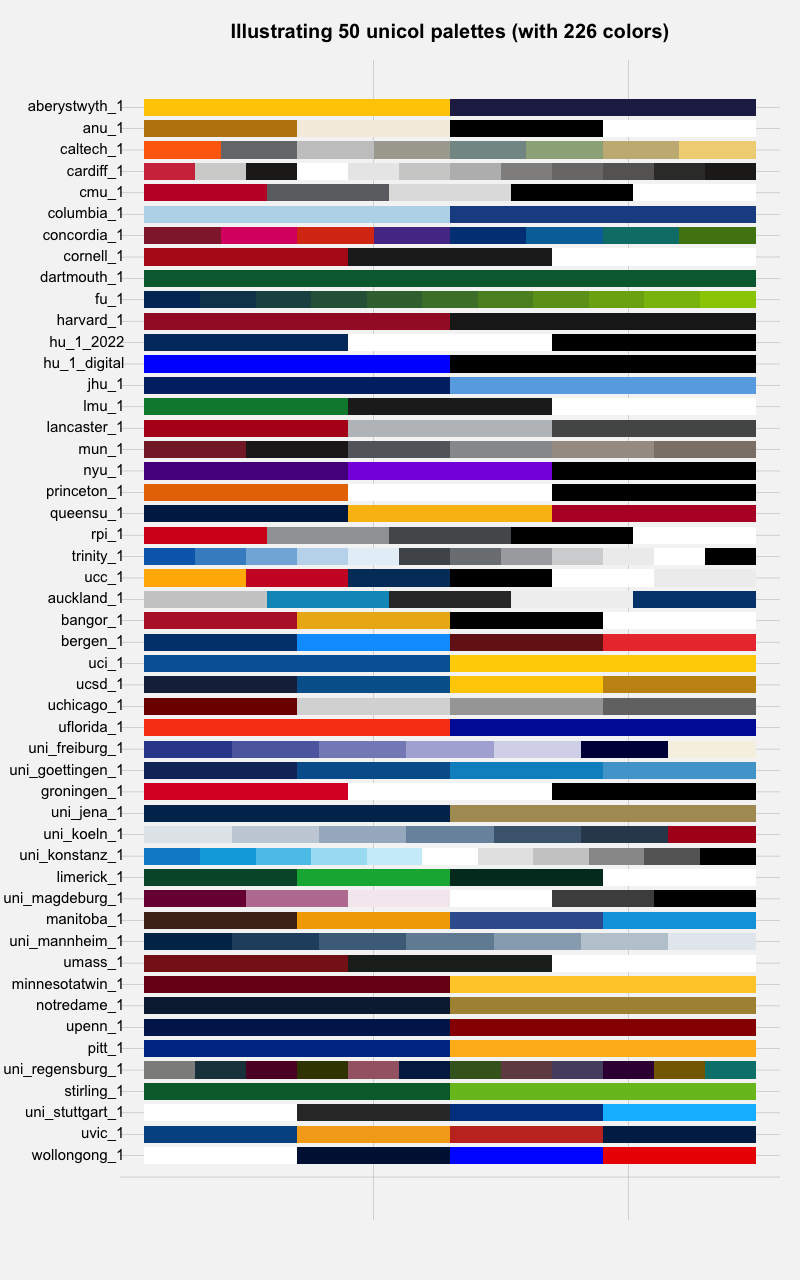
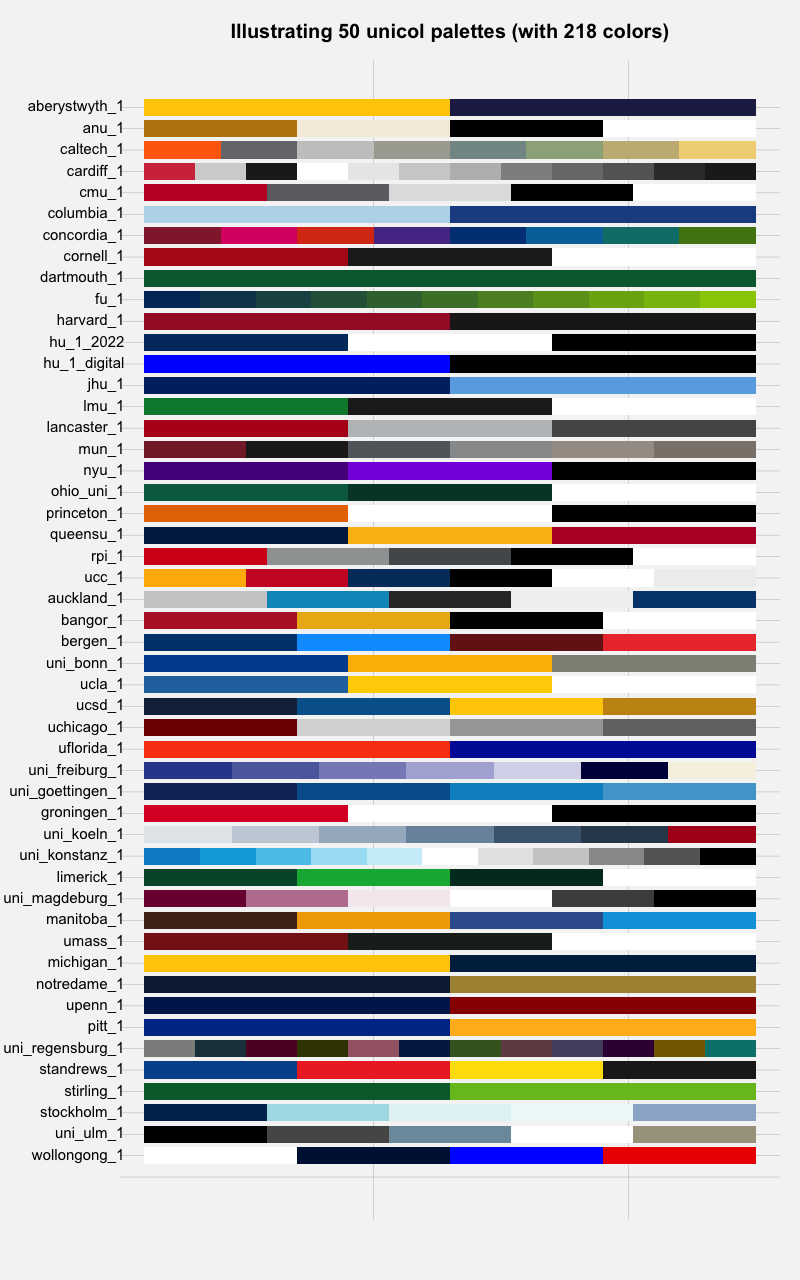
updates

diff --git a/README.md b/README.md
@@ -85,8 +85,8 @@ library(unikn)   # for color functions
 
 ## Contents
 
-The **unicol** package currently provides **254 color palettes** from
-**108 institutions**.
+The **unicol** package currently provides **256 color palettes** from
+**109 institutions**.
 
 <!-- **Table\ 1** provides an overview of all color palettes:  -->
 
@@ -99,18 +99,18 @@ an overview of included color palettes and institutions.)
 
 ### Examples of color palettes
 
-<!-- The **unicol** package currently contains **254\ color palettes** from **108\ institutions**.  -->
+<!-- The **unicol** package currently contains **256\ color palettes** from **109\ institutions**.  -->
 <!-- Example 1: Random pals (from vignette color_pals.Rmd): -->
 <!-- Show as a table: -->
 <!-- Show as a figure: -->
 
-**Figure 1** illustrates 50 random color palettes (with 226 colors):
+**Figure 1** illustrates 50 random color palettes (with 218 colors):
 
 <div class="figure" style="text-align: center">
 
-<img src="man/figures/README-unicol-pals-example-1-figure-1.png" alt="Figure 1: A sample of 50 unicol palettes (containing 226 colors)." width="680px" />
+<img src="man/figures/README-unicol-pals-example-1-figure-1.png" alt="Figure 1: A sample of 50 unicol palettes (containing 218 colors)." width="680px" />
 <p class="caption">
-Figure 1: A sample of 50 unicol palettes (containing 226 colors).
+Figure 1: A sample of 50 unicol palettes (containing 218 colors).
 </p>
 
 </div>
@@ -325,6 +325,6 @@ creators.
 
 <!-- Footer: -->
 
-\[File `README.Rmd` updated on 2023-10-11.\]
+\[File `README.Rmd` updated on 2023-10-12.\]
 
 <!-- eof. -->

diff --git a/NEWS.md b/NEWS.md
@@ -7,7 +7,7 @@ This is the development version of **unicol**, available at <https://github.com/
 
 This version adds new color palettes and improves package maintenance.
 
-The **unicol** package currently provides **254\ color palettes** from **108\ institutions**. 
+The **unicol** package currently provides **256\ color palettes** from **109\ institutions**. 
 
 
 <!-- Log of changes: --> 
@@ -42,7 +42,10 @@ Changes since last release:
     - [University of Stirling](https://www.stir.ac.uk) (Scotland, UK): 
     [`stirling_1`](https://hneth.github.io/unicol/dev/reference/stirling_1.html),
     [`stirling_2`](https://hneth.github.io/unicol/dev/reference/stirling_2.html),
-    [`stirling_3`](https://hneth.github.io/unicol/dev/reference/stirling_3.html)
+    [`stirling_3`](https://hneth.github.io/unicol/dev/reference/stirling_3.html) 
+    - [University of Stockholm](https://www.su.se) (Sweden): 
+    [`stockholm_1`](https://hneth.github.io/unicol/dev/reference/stockholm_1.html),
+    [`stockholm_2`](https://hneth.github.io/unicol/dev/reference/stockholm_2.html) 
 
 
 <!-- Corrections and updates: --> 
@@ -152,6 +155,6 @@ The **unicol** package initially provides **202 color palettes** from **86 insti
 
 ---------- 
 
-[File `NEWS.md` updated on 2023-10-11.]
+[File `NEWS.md` updated on 2023-10-12.]
 
 <!-- eof. -->
